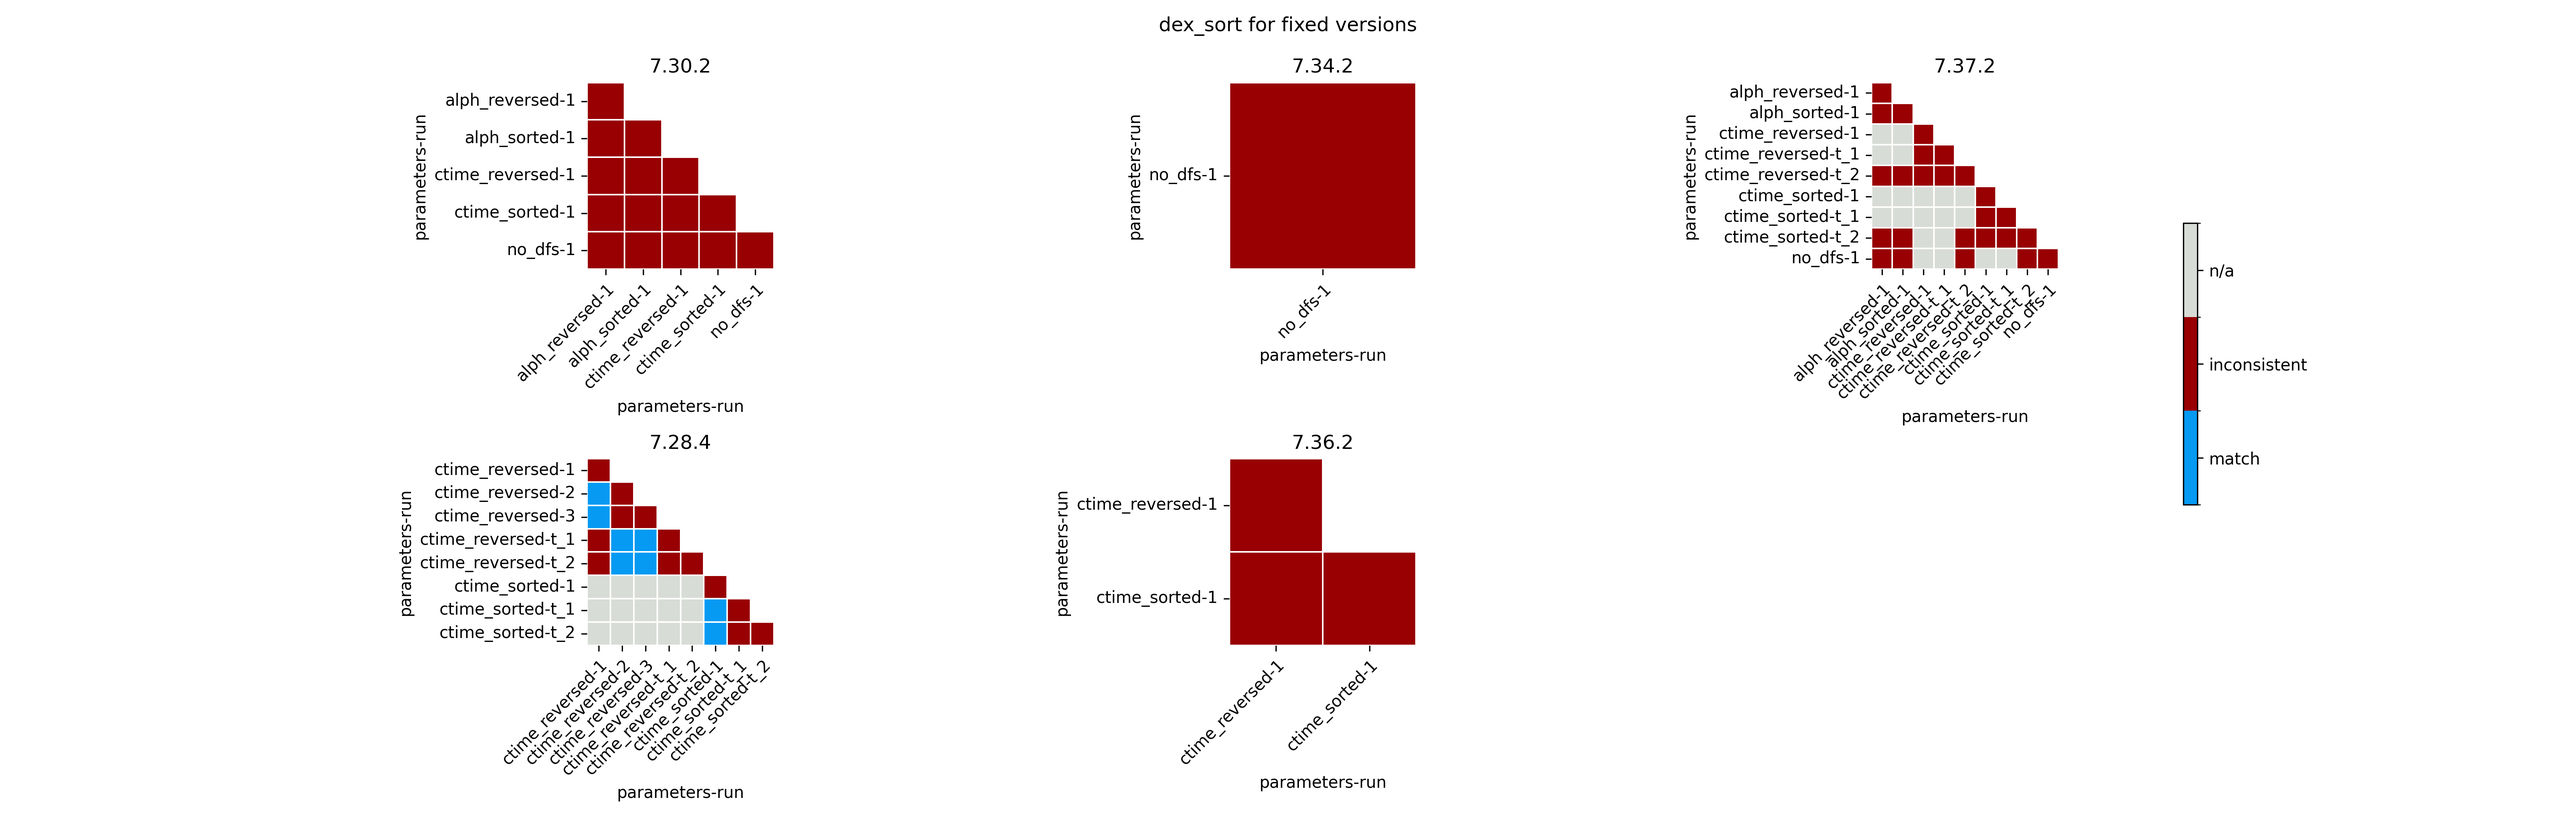
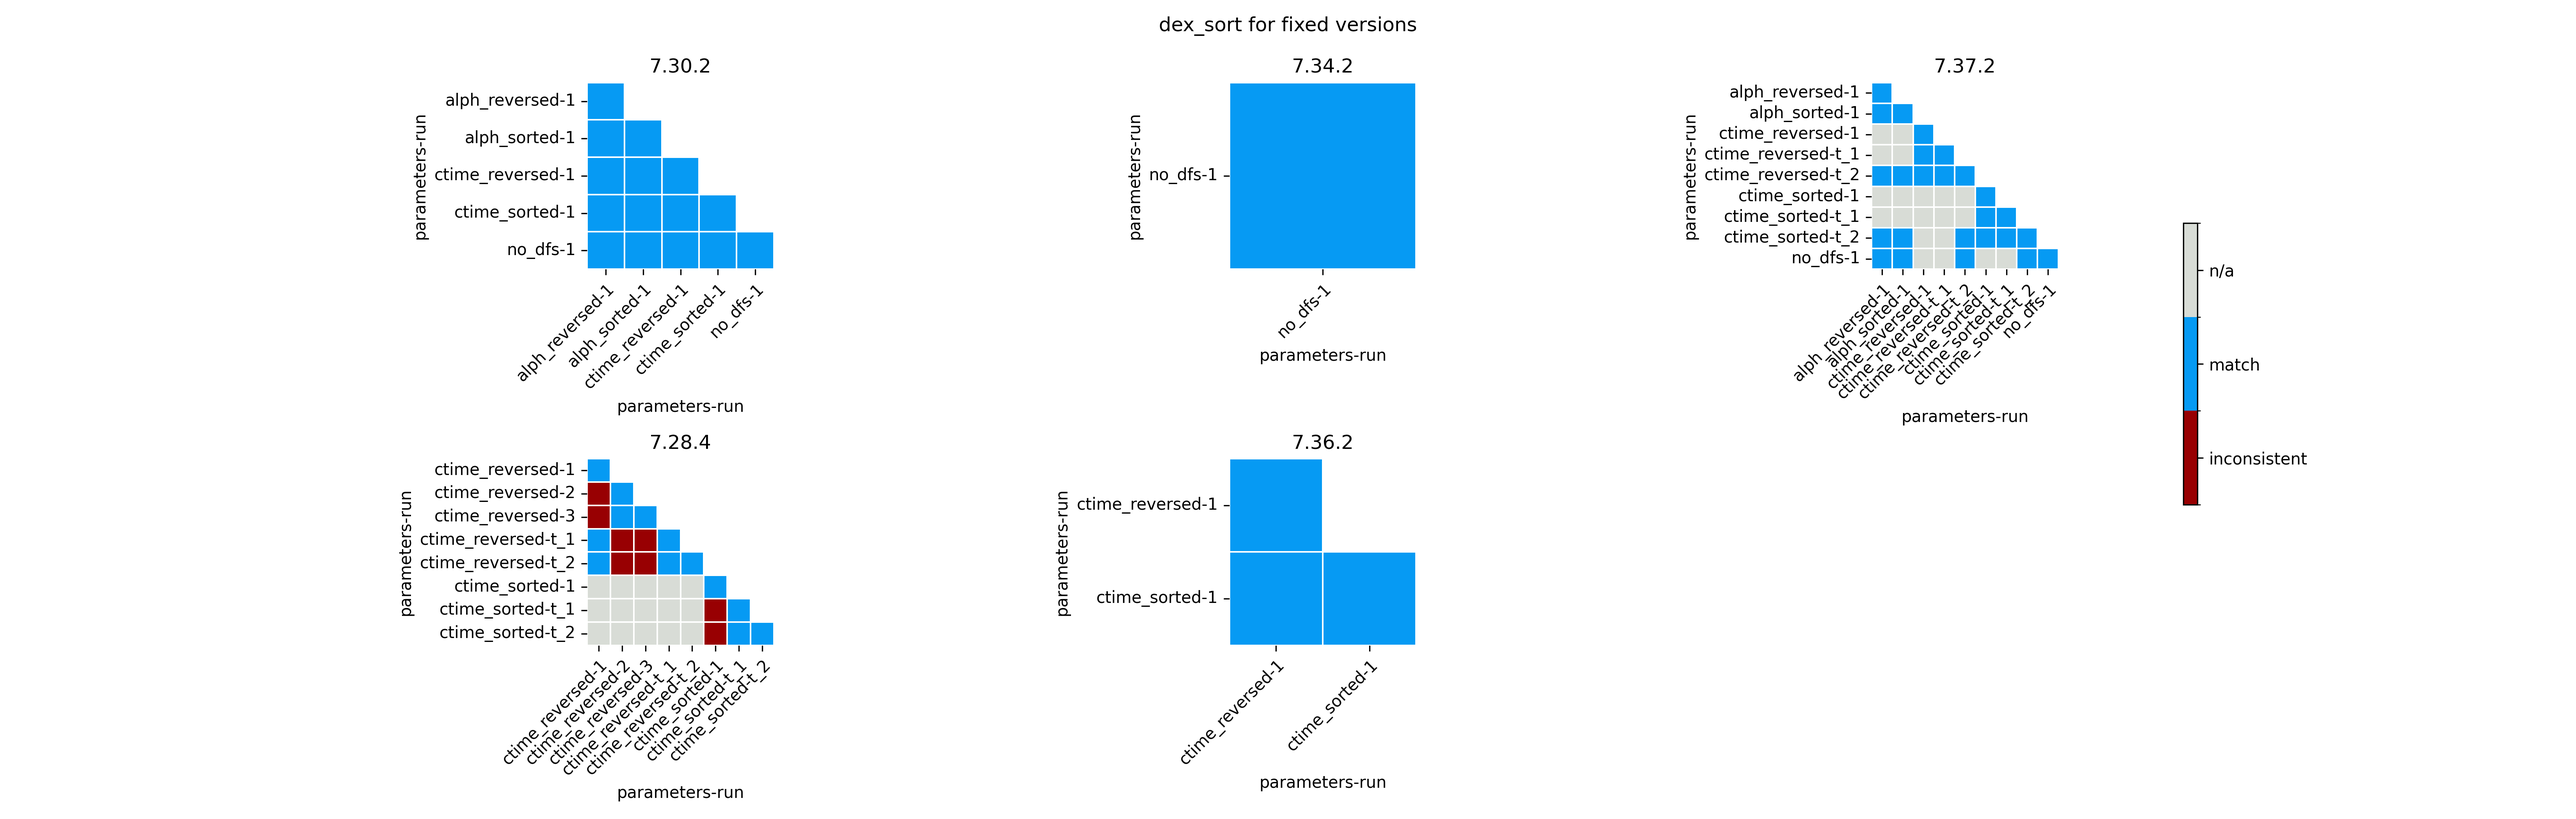
flipped sign in plotinator

diff --git a/analysis/plotinator.py b/analysis/plotinator.py
@@ -114,8 +114,14 @@ def subfigures(test: str, fixed_version: bool) -> None:
                 success = correlation_triangle(fixed_version, axes[x, y], file_path)
                 while not success:
                     i = i + 1
-                    file_path = all_files[i]
-                    success = correlation_triangle(fixed_version, axes[x, y], file_path)
+                    if i < len(all_files):
+                        file_path = all_files[i]
+                        success = correlation_triangle(fixed_version, axes[x, y], file_path)
+                    else:
+                        # we are out of data
+                        # No more files to plot, hide the remaining axes
+                        axes[x, y].set_visible(False)
+                        break
                 # Set title:
                 title = file_path.stem.replace("_", " ")
                 axes[x, y].set_title(title)
@@ -194,7 +200,7 @@ def subfigures(test: str, fixed_version: bool) -> None:
 
     plt.tight_layout()
 
-    colors = ["xkcd:azure", "xkcd:blood red", "xkcd:light grey"]
+    colors = ["xkcd:blood red", "xkcd:azure", "xkcd:light grey"]
     cmap = LinearSegmentedColormap.from_list("Custom", colors, len(colors))
     bounds = [0, 1, 2, 3]
     norm = BoundaryNorm(bounds, 4)
@@ -206,7 +212,7 @@ def subfigures(test: str, fixed_version: bool) -> None:
         ticks=[0.5, 1.5, 2.5],
         shrink=cbar_shrink,
     )
-    cbar.set_ticklabels(["match", "inconsistent", "n/a"])
+    cbar.set_ticklabels(["inconsistent", "match", "n/a"])
 
     plt.savefig(PLOT_ROOT / f"{test}_{version_or_params}", dpi=300)
 
@@ -218,7 +224,7 @@ def correlation_triangle(fixed_version: bool, ax, filepath: Path) -> bool:
         mask = np.triu(np.ones_like(df, dtype=bool), k=1)
         with plt.xkcd():
             np.fill_diagonal(mask, False)
-            colors = ["xkcd:azure", "xkcd:blood red", "xkcd:light grey"]
+            colors = ["xkcd:blood red", "xkcd:azure", "xkcd:light grey"]
             cmap = LinearSegmentedColormap.from_list("Custom", colors, len(colors))
             sns.heatmap(
                 df,
